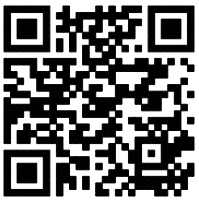
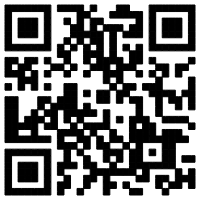
ios link added

diff --git a/application/views/index2.php b/application/views/index2.php
@@ -9,10 +9,12 @@
 <style type="text/css">
 	body {background: url(<?=asset_url().'img/background.gif'?>);}
 	#logo {background: url(<?=asset_url().'img/bbtitle.png'?>) no-repeat; width: 200px; height: 300px; display: block;}
-	#download { background: url(<?=asset_url().'img/download2.png'?>) no-repeat; width:242px; height:83px; display: block; margin:100px 0px 0px 12px; }
-	#vcode {background: url(<?=asset_url().'img/vcode.png'?>) no-repeat; width: 256px; height: 256px; margin: 20px 0px 0px 0px; display: block;}
+	#download { background: url(<?=asset_url().'img/download2.png'?>) no-repeat; width:242px; height:83px; display: block; margin:10px 0px 0px 12px; }
+	.vcode { margin: 18px 0px 0px 0px;}
+	
 	#update_log{display: block;margin-top: 100px;}
-	#contact{color: #6f6f6f}
+	#contact{color: #6f6f6f; margin: 20px 0;}
+	.platform{ margin: 15px auto; display: block;}
 </style>
 <title>BB看盘 比特时代看盘工具</title>
 <meta name="description" content="比特币 山寨币 看盘软件 安卓 BB看盘 可能是最好的山寨币看盘工具 比特时代看盘工具" />
@@ -53,11 +55,25 @@
 		<div class="col-md-6"></div>
 		<div class="col-md-6">
 			<a id="logo"></a>
-			<a id="download" href="http://ggcoin.sinaapp.com/welcome/downloadAPK"></a>
-			<a id="vcode"></a>
+			<div class="row">
+				<div class="col-md-3">
+					<img class="platform" src="<?=asset_url().'img/platform-android.png'?>" />
+					<img class="vcode img" src="<?=asset_url().'img/vcode.png'?>" />
+					<a class="btn btn-link center-block" href="http://ggcoin.sinaapp.com/welcome/downloadAPK">直接下载</a>
+				</div>
+				<div class="col-md-3">
+					<img class="platform" src="<?=asset_url().'img/platform-ios.png'?>" />
+					<img class="vcode img" src="<?=asset_url().'img/vcode-ios.png'?>" />
+					
+				</div>
+				
+			</div>
+			
 			<a style="visibility: hidden">比特币 山寨币 看盘软件 安卓 BB看盘 可能是最好的山寨币看盘工具 比特时代看盘工具 </a>
-			<div id="contact">bbkanpan<a>@</a>gmail.com</div>
+			<div id="contact">bbkanpan@gmail.com</div>
+			<!--
 			<h1 id="donate">接受捐赠：</br>XRP:rMPszrrd7Jwrf6ysFT6L3aeJsAVC87N3rQ<br/>LTC:LKX1s5yZL1VFVU1VURSkCP1RZzMu6cVXGF</h1>
+			-->
 		</div>		
 	</div>
 </div>
